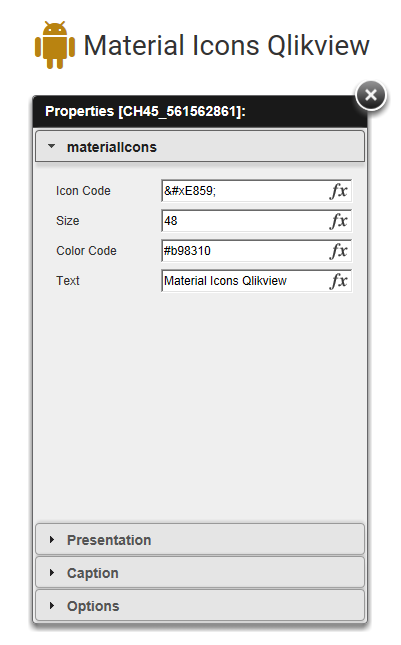
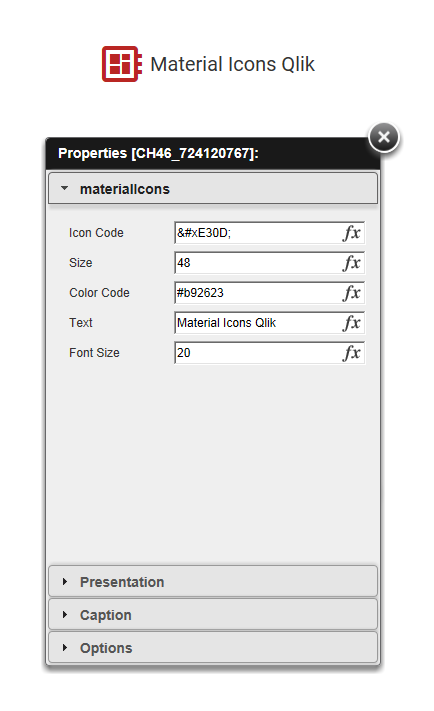
Added font-size

Changed region(s): [[0.0599, 0.031, 0.9875, 0.9922]]

diff --git a/Extensions/Objects/materialIcons/script.js b/Extensions/Objects/materialIcons/script.js
@@ -12,16 +12,7 @@ Qv.AddExtension("materialIcons",
 		 var size=this.Layout.Text1.text ? this.Layout.Text1.text : '24';
 		 var color=this.Layout.Text2.text ? this.Layout.Text2.text : '#bbbbbb';
 		 var Text=this.Layout.Text3.text ? this.Layout.Text3.text : ' ';
-		 if (size>40)
-		 {
-			var fontSize=size-20;
-		 }else	 if (size>30)		 
-		 {
-			var fontSize=size-16;
-		 }else
-		 {
-			var fontSize=size-12;
-		 }
+		  var fontSize=this.Layout.Text4.text ? this.Layout.Text4.text : '24';
 		 var html="";
 		 $(_this.Element).empty();
 		 RenderExtension();
